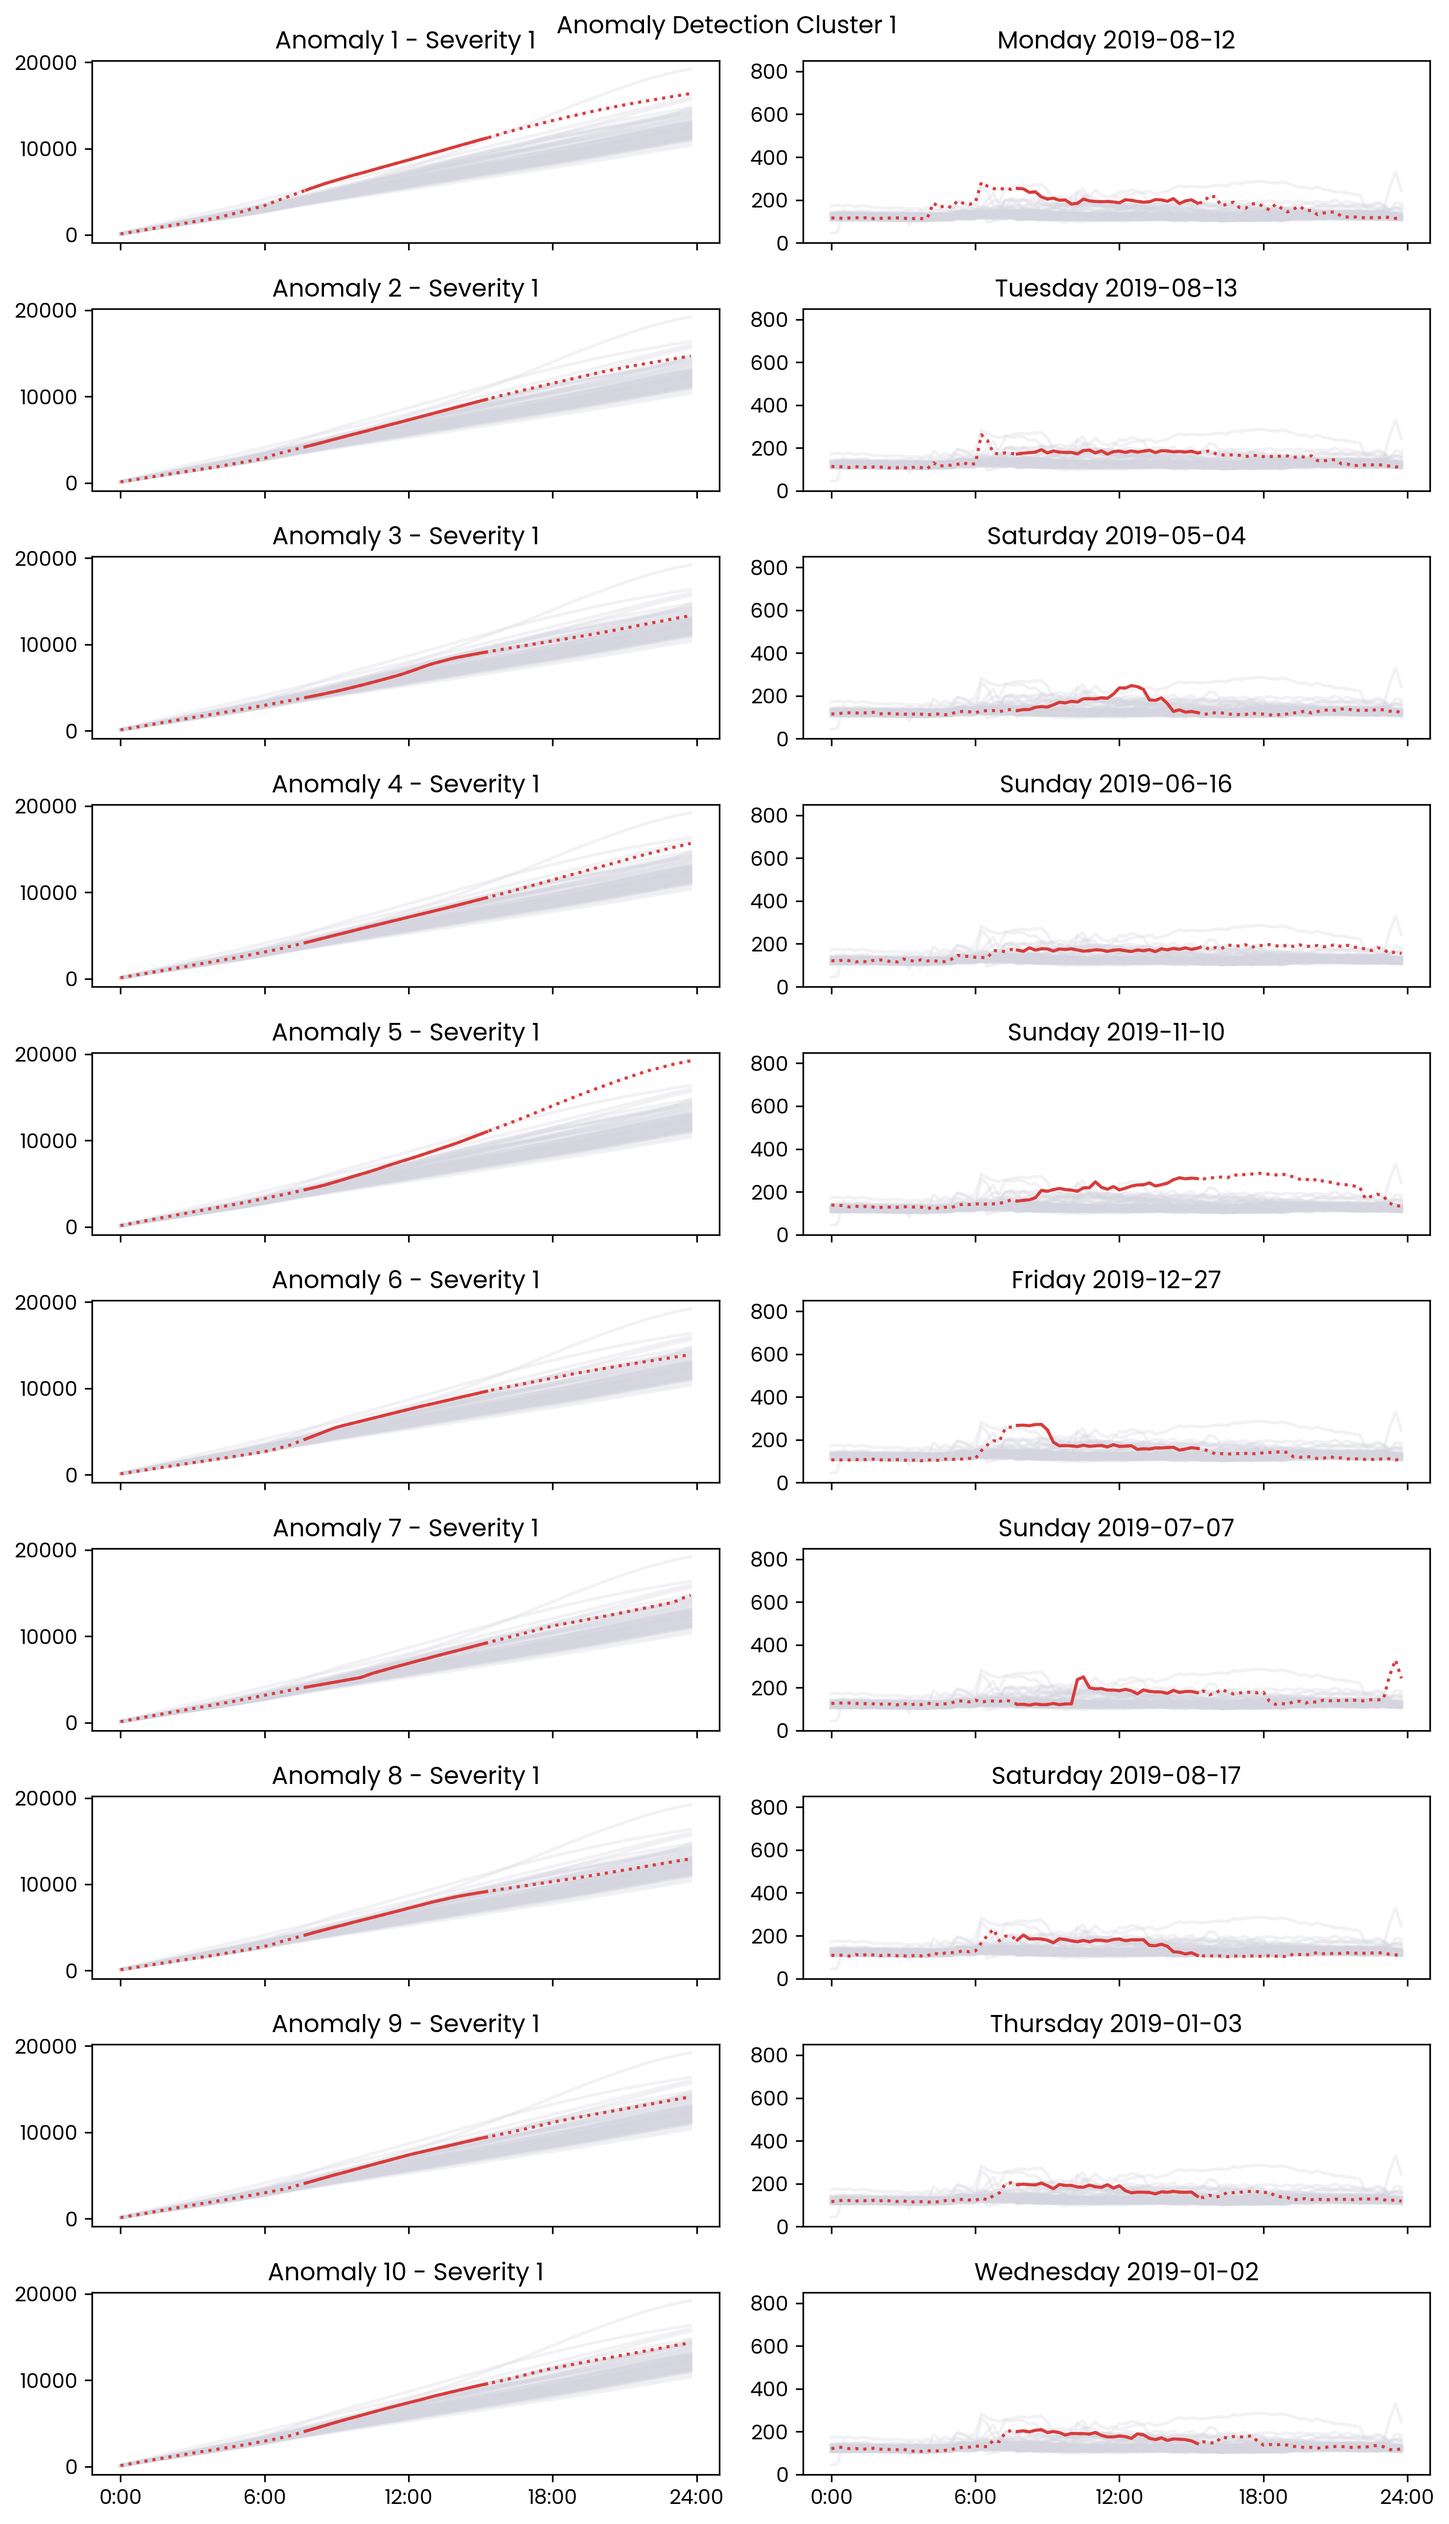
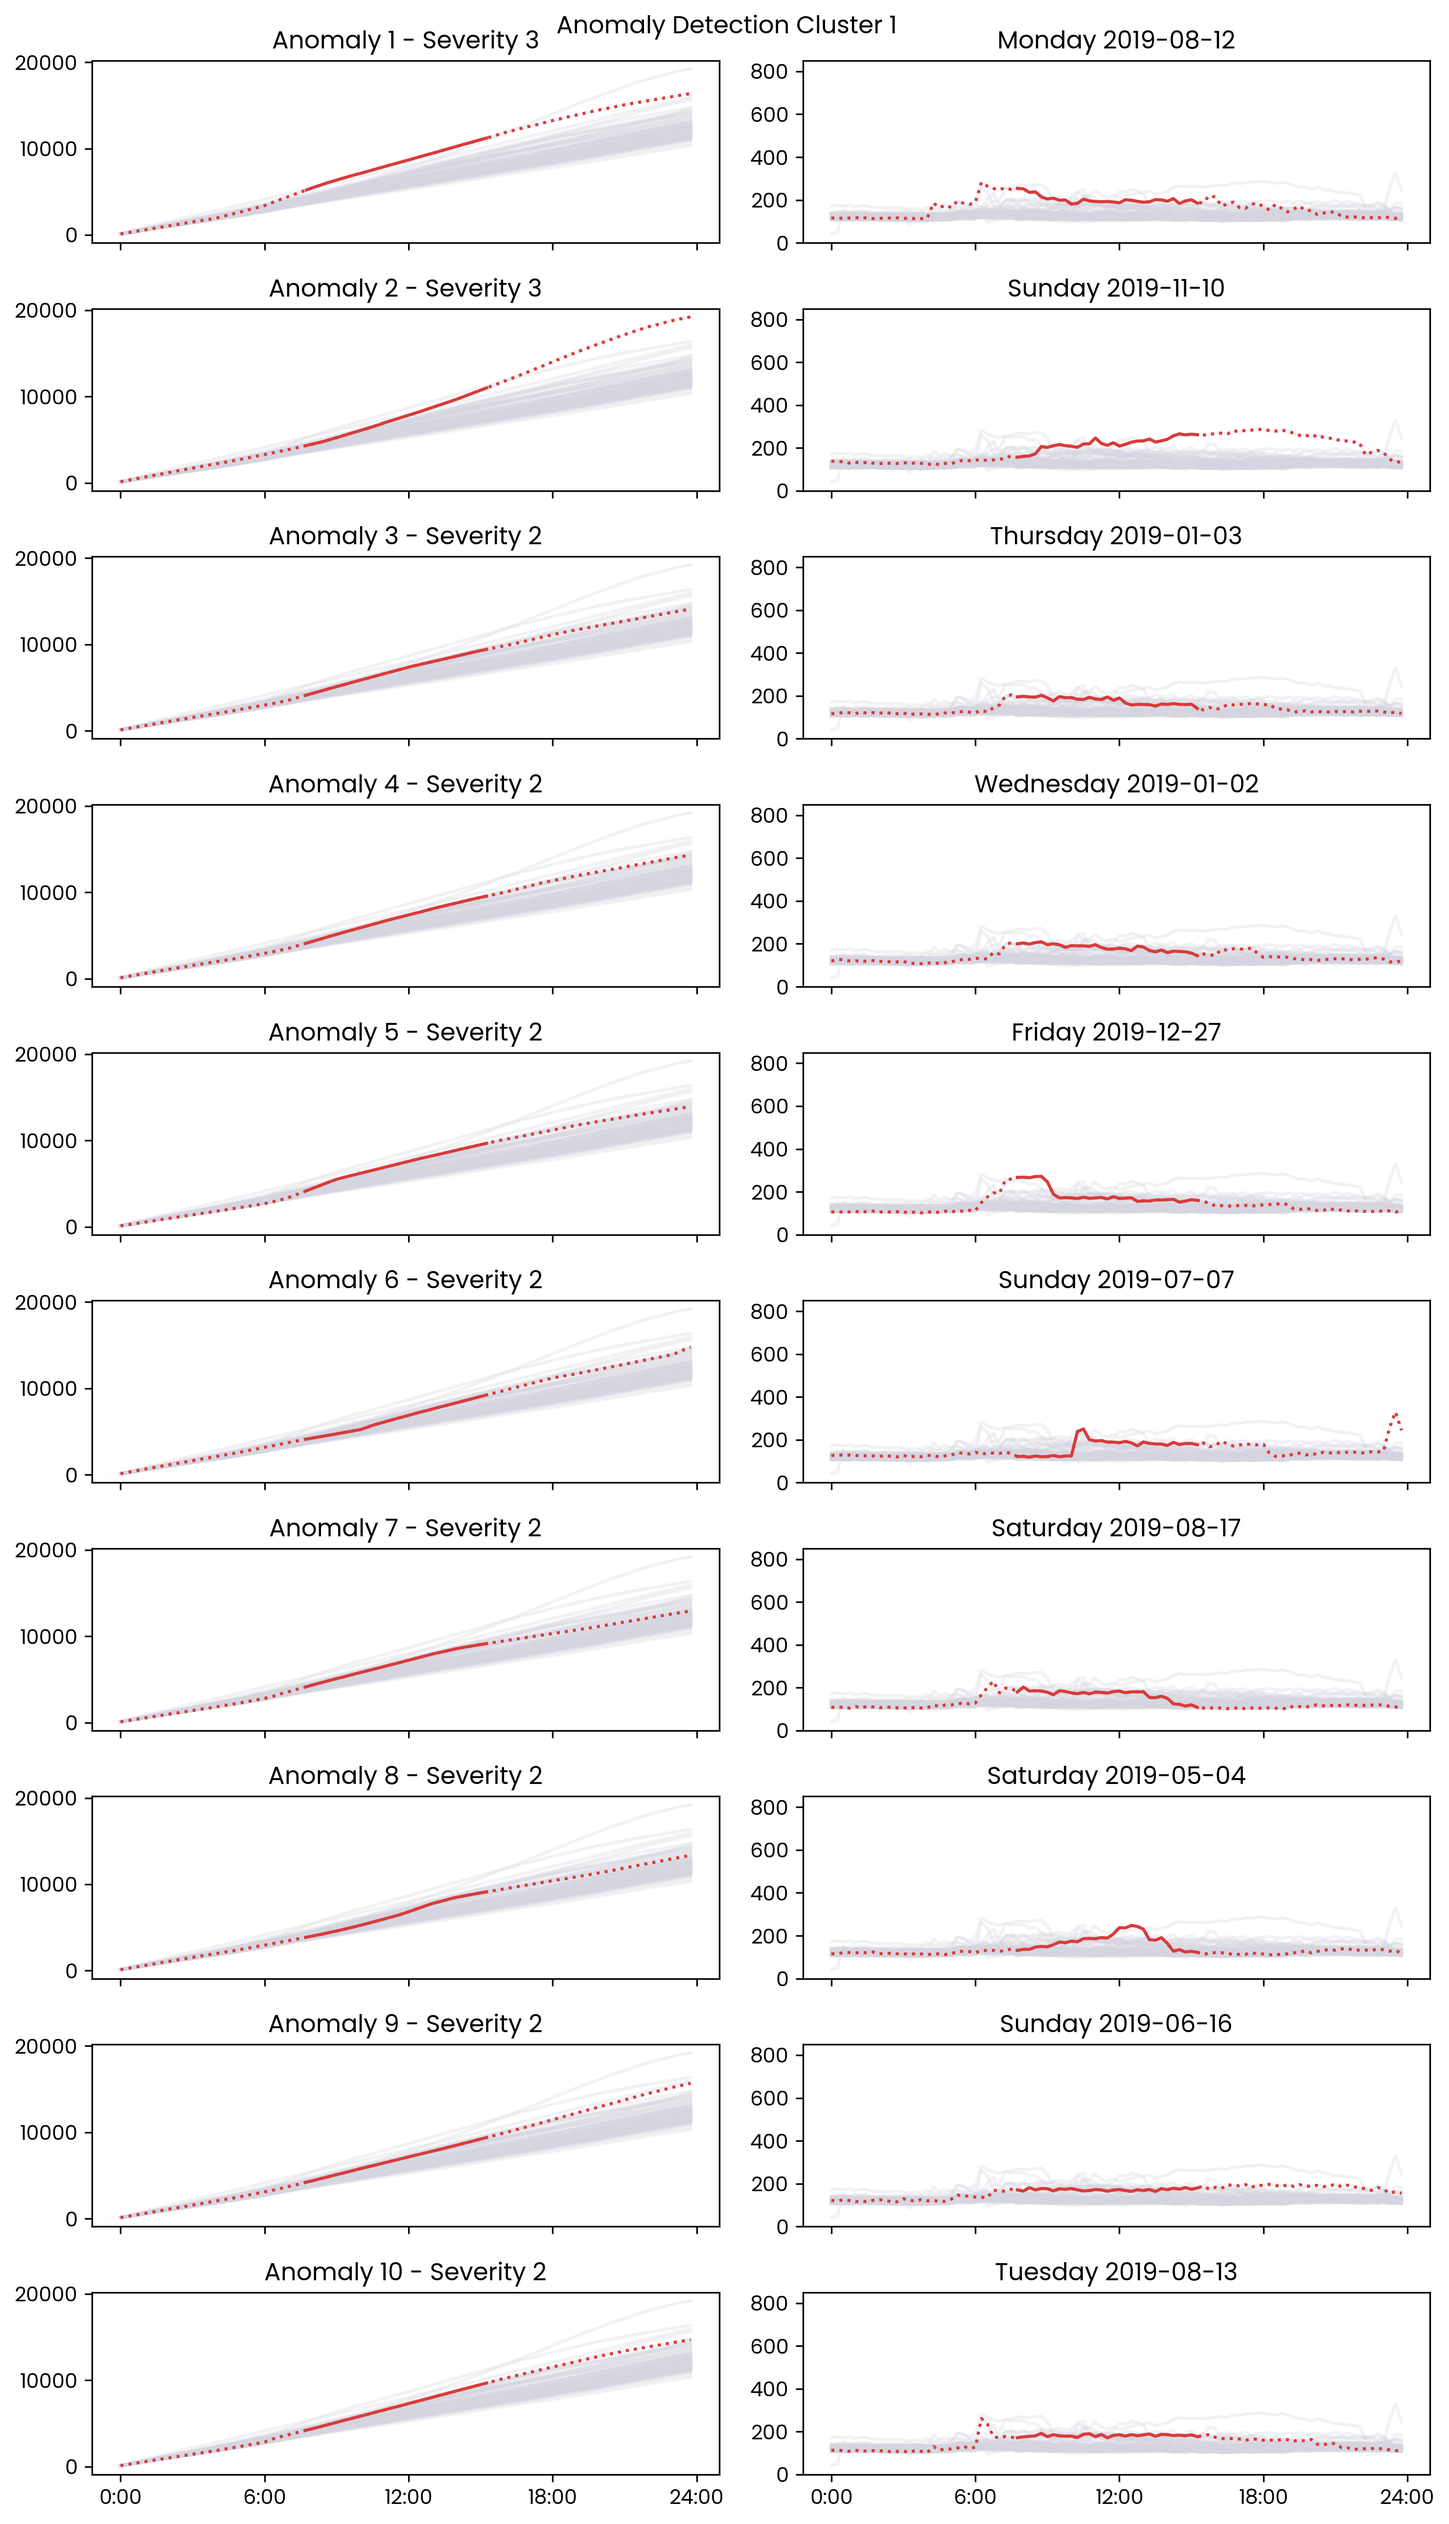
graphs updated

diff --git a/Roberto Chiosa/CMP/Polito_Usecase.py b/Roberto Chiosa/CMP/Polito_Usecase.py
@@ -32,7 +32,9 @@ line_color_other = "#D5D5E0"  # previously gray
 # plt.style.use("seaborn-paper")
 rc('font', **{'family': 'sans-serif', 'sans-serif': ['Poppins']})
 plt.rcParams.update({'font.size': fontsize})
-
+# remove warning More than 20 figures have been opened.
+# Figures created through the pyplot interface (`matplotlib.pyplot.figure`)
+plt.rcParams.update({'figure.max_open_warning': 0})
 # define a begin time to evaluate execution time & performance of algorithm
 begin_time = datetime.datetime.now()
 print('\n*********************\n' +
@@ -296,7 +298,7 @@ for u in range(len(time_window)):
         '''
 
         #######################################
-        # calculate anomaly score trhough majority voting
+        # calculate anomaly score though majority voting
         cmp_ad_score = anomaly_detection(group=group, group_cmp=group_cmp)
         # set to nan if zero (no anomaly)
         cmp_ad_score = np.where(cmp_ad_score == 0, np.nan, cmp_ad_score)
@@ -350,40 +352,77 @@ for u in range(len(time_window)):
                 for k in range(0, power_group_anomaly.shape[1]):
                     energy_group_anomaly[:, k] = np.cumsum(power_group_anomaly[:, k])
 
-                ax[j, 0].plot(energy_group,
-                              c=line_color_other,
-                              alpha=0.3)
-                ax[j, 0].plot(
-                    range(dec_to_obs(context_start, obs_per_hour), (dec_to_obs(context_end, obs_per_hour) + m)),
-                    energy_group_anomaly[
-                    dec_to_obs(context_start, obs_per_hour):(dec_to_obs(context_end, obs_per_hour) + m)],
-                    c=line_color_context,
-                    linestyle=line_style_context)
-                ax[j, 0].plot(energy_group_anomaly,
-                              c=line_color_context,
-                              linestyle=line_style_other)
-                ax[j, 0].set_title("Anomaly " + str(j + 1) + " - Severity " + str(int(cmp_ad_score[anomaly_index])))
+                if num_anomalies_to_show == 1:
+                    ax[0].plot(energy_group,
+                                  c=line_color_other,
+                                  alpha=0.3)
+                    ax[0].plot(
+                        range(dec_to_obs(context_start, obs_per_hour), (dec_to_obs(context_end, obs_per_hour) + m)),
+                        energy_group_anomaly[
+                        dec_to_obs(context_start, obs_per_hour):(dec_to_obs(context_end, obs_per_hour) + m)],
+                        c=line_color_context,
+                        linestyle=line_style_context)
+                    ax[0].plot(energy_group_anomaly,
+                                  c=line_color_context,
+                                  linestyle=line_style_other)
+                    ax[0].set_title("Anomaly " + str(j + 1) + " - Severity " + str(int(cmp_ad_score[anomaly_index])))
 
-                ax[j, 1].plot(power_group,
-                              c=line_color_other,
-                              alpha=0.3)
-                ax[j, 1].plot(
-                    range(dec_to_obs(context_start, obs_per_hour), (dec_to_obs(context_end, obs_per_hour) + m)),
-                    power_group_anomaly[
-                    dec_to_obs(context_start, obs_per_hour):(dec_to_obs(context_end, obs_per_hour) + m)],
-                    c=line_color_context,
-                    linestyle=line_style_context)
-                ax[j, 1].plot(power_group_anomaly,
-                              c=line_color_context,
-                              linestyle=line_style_other)
-                ax[j, 1].set_ylim([min_power, max_power])
-                ax[j, 1].set_yticks(ticks_power)
-                ax[j, 1].set_title(date.day_name() + " " + str(date)[:10])
+                    ax[1].plot(power_group,
+                                  c=line_color_other,
+                                  alpha=0.3)
+                    ax[1].plot(
+                        range(dec_to_obs(context_start, obs_per_hour), (dec_to_obs(context_end, obs_per_hour) + m)),
+                        power_group_anomaly[
+                        dec_to_obs(context_start, obs_per_hour):(dec_to_obs(context_end, obs_per_hour) + m)],
+                        c=line_color_context,
+                        linestyle=line_style_context)
+                    ax[1].plot(power_group_anomaly,
+                                  c=line_color_context,
+                                  linestyle=line_style_other)
+                    ax[1].set_ylim([min_power, max_power])
+                    ax[1].set_yticks(ticks_power)
+                    ax[1].set_title(date.day_name() + " " + str(date)[:10])
+                else:
+                    ax[j, 0].plot(energy_group,
+                                  c=line_color_other,
+                                  alpha=0.3)
+                    ax[j, 0].plot(
+                        range(dec_to_obs(context_start, obs_per_hour), (dec_to_obs(context_end, obs_per_hour) + m)),
+                        energy_group_anomaly[
+                        dec_to_obs(context_start, obs_per_hour):(dec_to_obs(context_end, obs_per_hour) + m)],
+                        c=line_color_context,
+                        linestyle=line_style_context)
+                    ax[j, 0].plot(energy_group_anomaly,
+                                  c=line_color_context,
+                                  linestyle=line_style_other)
+                    ax[j, 0].set_title("Anomaly " + str(j + 1) + " - Severity " + str(int(cmp_ad_score[anomaly_index])))
 
-            ax[0, 0].set_xticks(range(0, 97, 24))
-            ticklabels = ["{hour}:00".format(hour=(x // obs_per_hour)) for x in range(0, 97, 24)]
-            # ticklabels[-1] = ""
-            ax[0, 0].set_xticklabels(ticklabels)
+                    ax[j, 1].plot(power_group,
+                                  c=line_color_other,
+                                  alpha=0.3)
+                    ax[j, 1].plot(
+                        range(dec_to_obs(context_start, obs_per_hour), (dec_to_obs(context_end, obs_per_hour) + m)),
+                        power_group_anomaly[
+                        dec_to_obs(context_start, obs_per_hour):(dec_to_obs(context_end, obs_per_hour) + m)],
+                        c=line_color_context,
+                        linestyle=line_style_context)
+                    ax[j, 1].plot(power_group_anomaly,
+                                  c=line_color_context,
+                                  linestyle=line_style_other)
+                    ax[j, 1].set_ylim([min_power, max_power])
+                    ax[j, 1].set_yticks(ticks_power)
+                    ax[j, 1].set_title(date.day_name() + " " + str(date)[:10])
+
+            if num_anomalies_to_show == 1:
+                ax[0].set_xticks(range(0, 97, 24))
+                ticklabels = ["{hour}:00".format(hour=(x // obs_per_hour)) for x in range(0, 97, 24)]
+                # ticklabels[-1] = ""
+                ax[0].set_xticklabels(ticklabels)
+            else:
+                ax[0, 0].set_xticks(range(0, 97, 24))
+                ticklabels = ["{hour}:00".format(hour=(x // obs_per_hour)) for x in range(0, 97, 24)]
+                # ticklabels[-1] = ""
+                ax[0, 0].set_xticklabels(ticklabels)
 
             plt.tight_layout()
 

diff --git a/Roberto Chiosa/CMP/anomaly_detection_functions.py b/Roberto Chiosa/CMP/anomaly_detection_functions.py
@@ -145,10 +145,16 @@ def elbow_fun(group, group_cmp):
             outliers[i] = columns_median[j]
             j = j + 1
 
+
     # take the outliers
     anomaly_day = yy[0:num_anomalies_to_show]
-    threshold = min(anomaly_day)
-    column = (outliers >= threshold) * 1
+
+    # take the outliers
+    try:
+        threshold = min(anomaly_day)
+        column = (outliers >= threshold) * 1
+    except:
+        column = np.zeros(group.size)
 
     return column, fig
 
